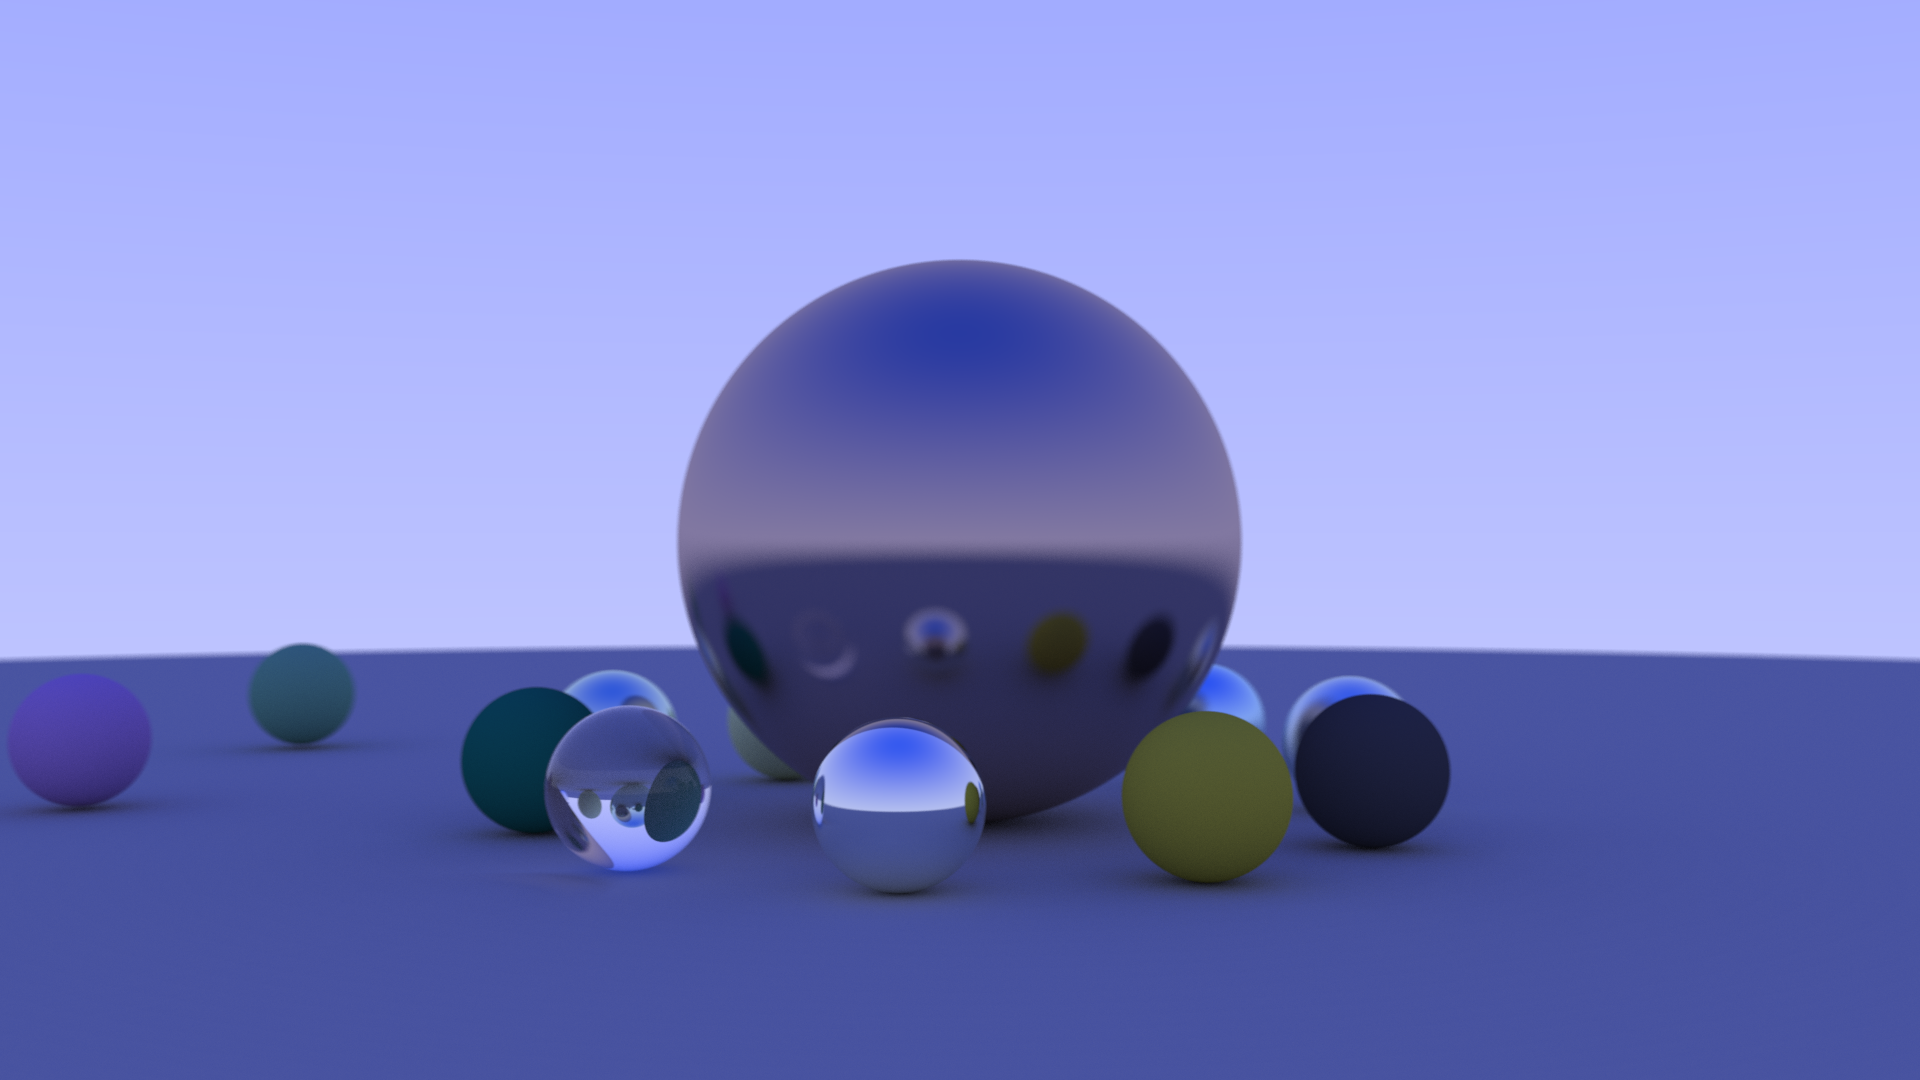
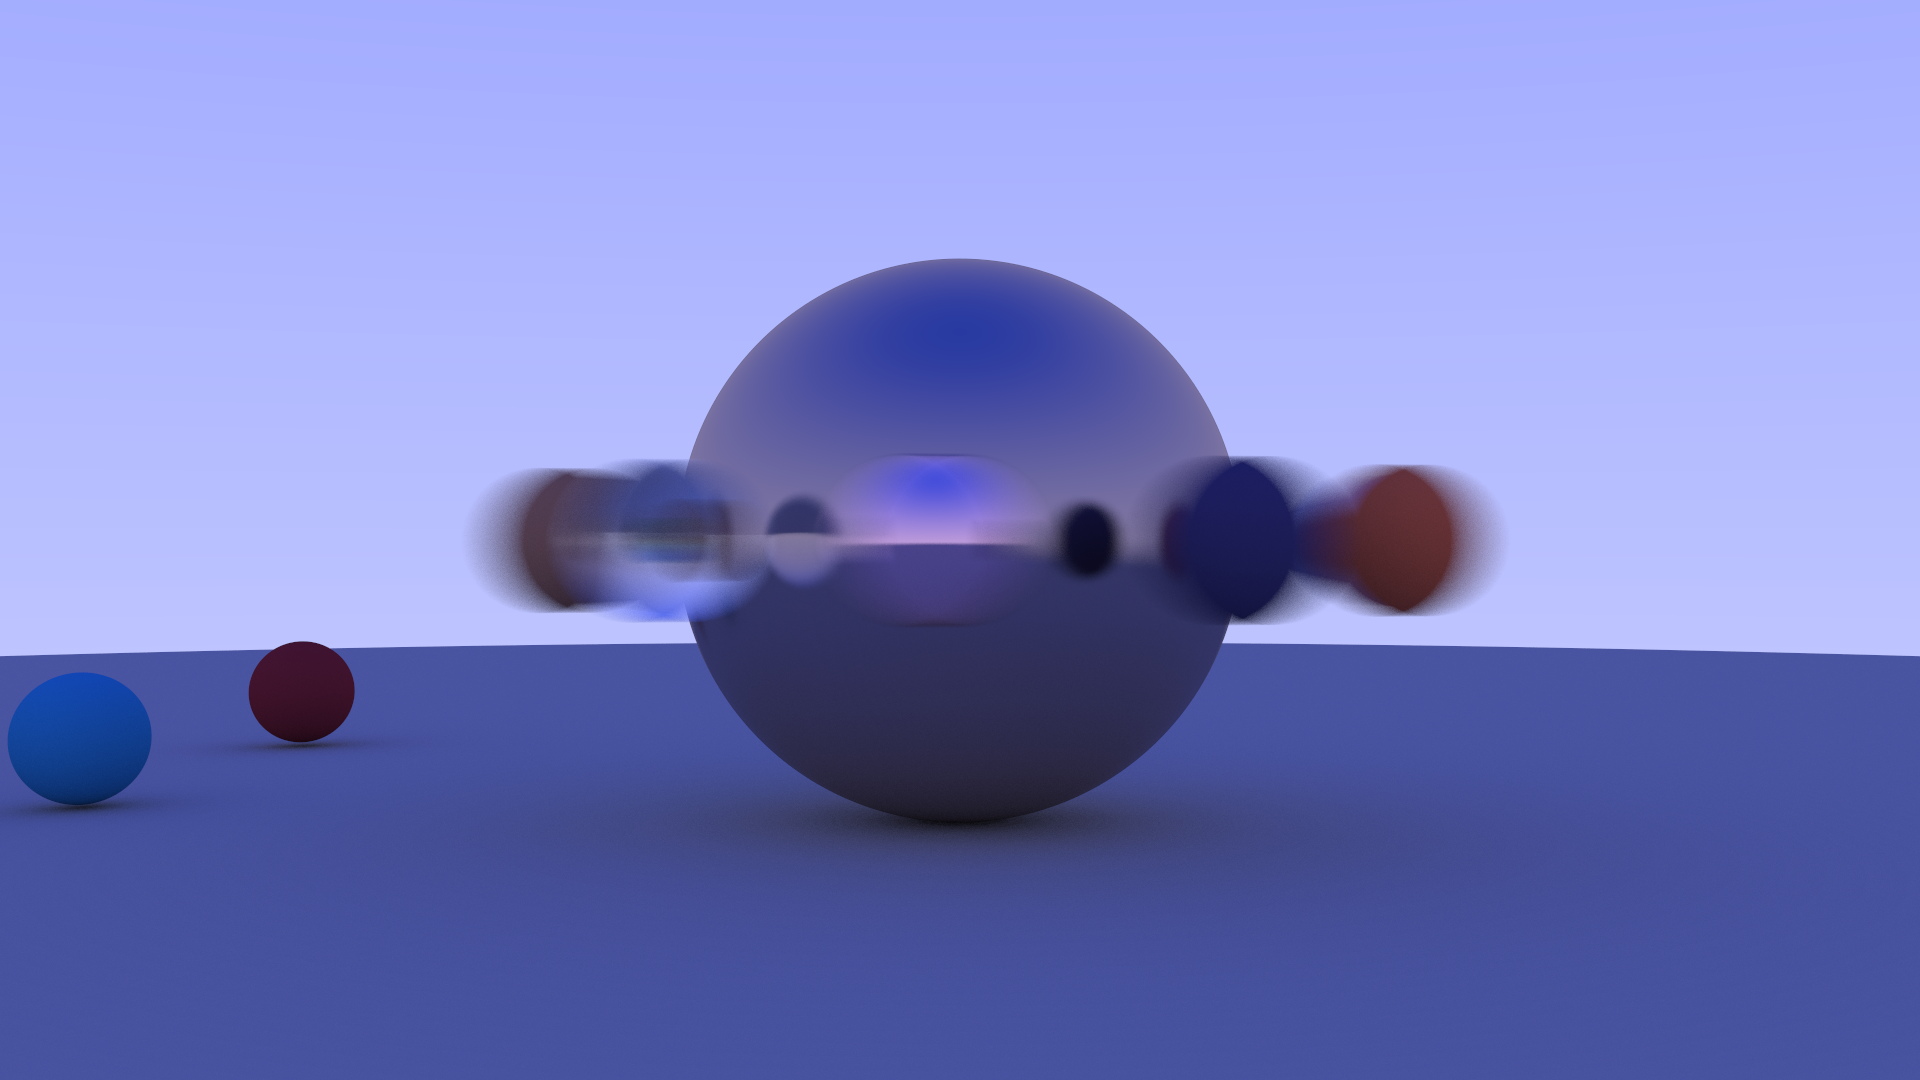
Add blur to sphere_ring

Changed region(s): [[0.0, 0.3972, 1.0, 0.8556]]

diff --git a/source/Scenes.cs b/source/Scenes.cs
@@ -97,8 +97,10 @@ namespace RayTracer
                 Vector3.UnitY, 
                 30.0f, 
                 config.ImageAspectRatio,
-                0.1f, 
-                10.0f
+                0.0f, 
+                10.0f,
+                0.0f,
+                1.0f
             );
             var scene = new Scene("sphere_ring", camera);
             var objects = scene.HitableList;
@@ -114,6 +116,8 @@ namespace RayTracer
             // Ring of spheres.
             int numRingSpheres = 10;
             float ringSphereRad = 0.5f;
+            float endPosOffset = 0.3f;
+            float yPos = centerSphereRad * 0.5f;
             float theta = (MathF.PI*2.0f) / numRingSpheres;
             for (int i = 0; i < numRingSpheres; i++)
             {
@@ -141,7 +145,11 @@ namespace RayTracer
                     var albedo = MathExt.RandomVector3() * MathExt.RandomVector3();
                     mat = new Lambertian(albedo);
                 }
-                objects.Add(new Sphere(new Vector3(xPrime, ringSphereRad, zPrime), ringSphereRad, mat));
+
+                var startPos = new Vector3(xPrime, yPos + 1.0f, zPrime);
+                var endPos = new Vector3(xPrime + endPosOffset, yPos + 1.0f,
+                    zPrime + endPosOffset);
+                objects.Add(new MovingSphere(startPos, endPos, 0.0f, 1.0f, ringSphereRad, mat));
             }
 
             // Background spheres.

diff --git a/source/Program.cs b/source/Program.cs
@@ -12,11 +12,11 @@ namespace RayTracer
     {
         static void Main(string[] args)
         {
-            var config = Config.NewDefault();
+            var config = Config.NewDefaultForDev();
             var stopWatch = new Stopwatch();
             var framebuffer = new Image(config.ImageWidth, config.ImageHeight);
 
-            var scene = Scenes.RandomSpheres(config);
+            var scene = Scenes.SphereRing(config);
             var rayTracer = new RayTracer(scene, config.SamplesPerPixel, config.MaxDepth);
 
             Console.WriteLine("Rendering {0} with config: {1}", scene.Name, config); 
